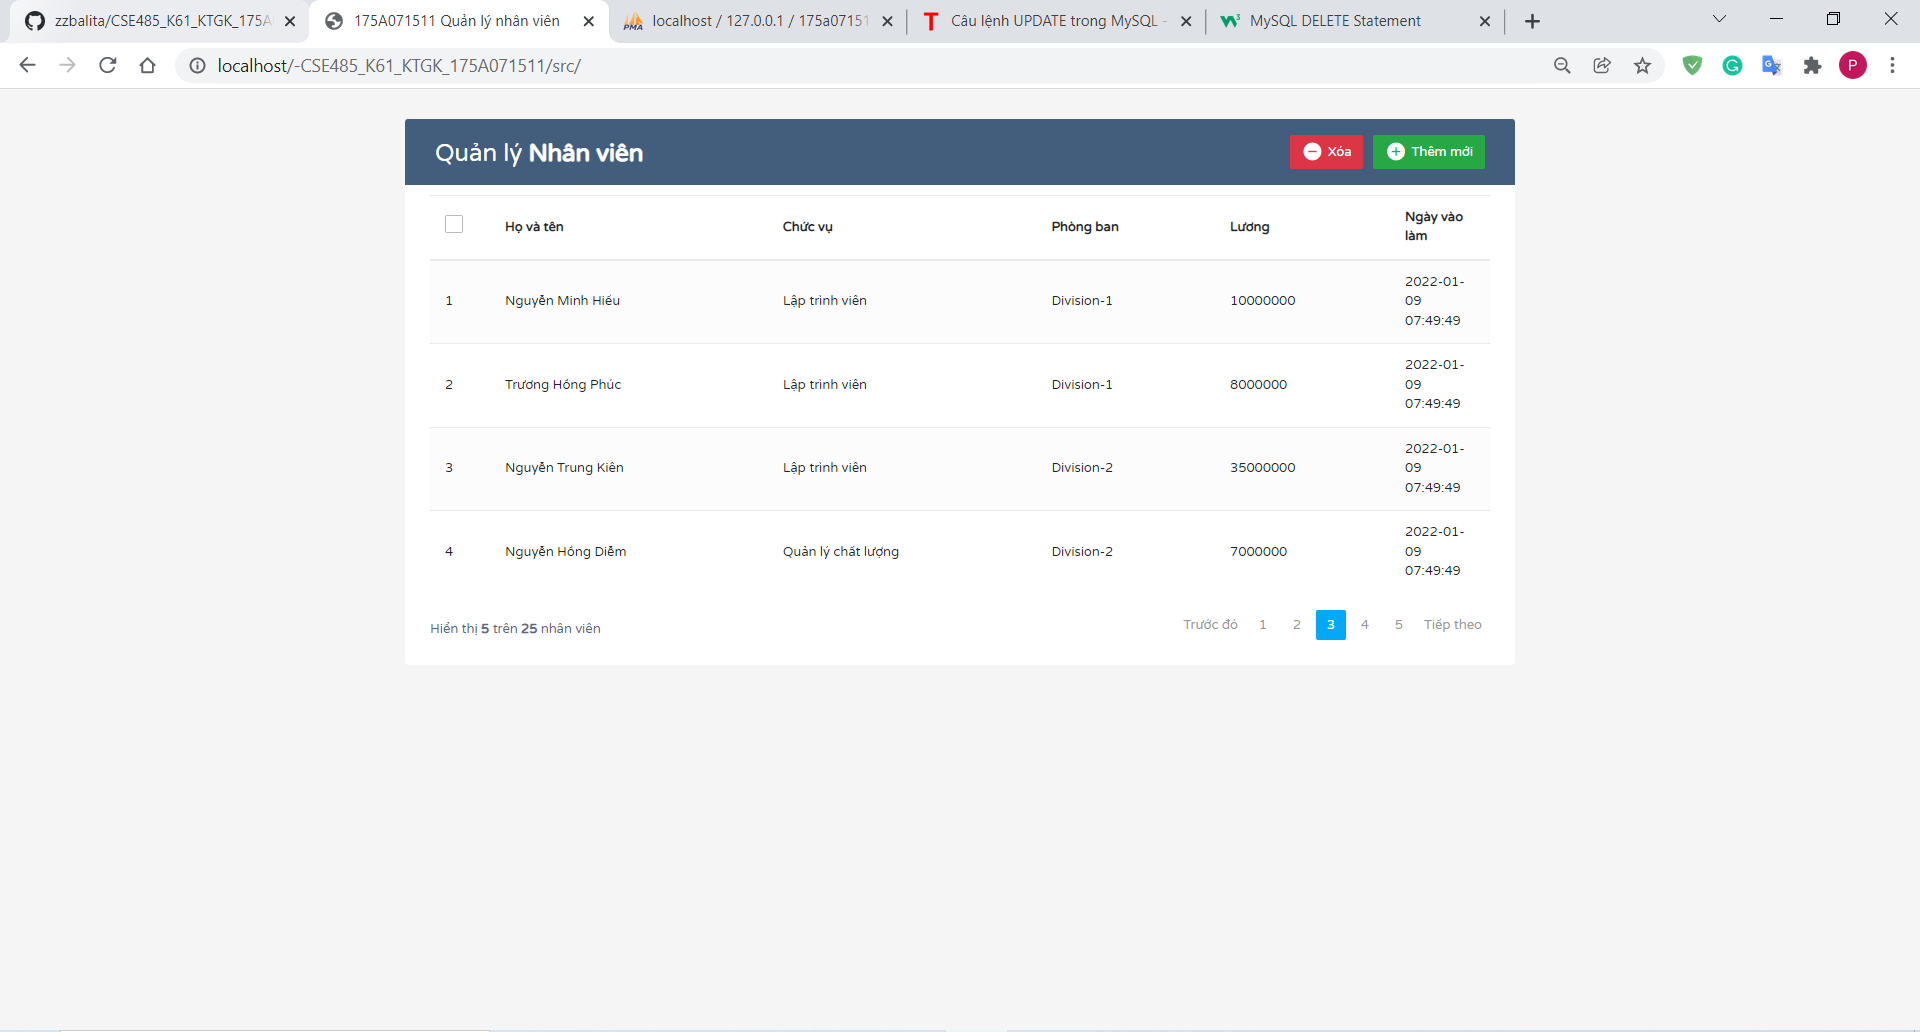
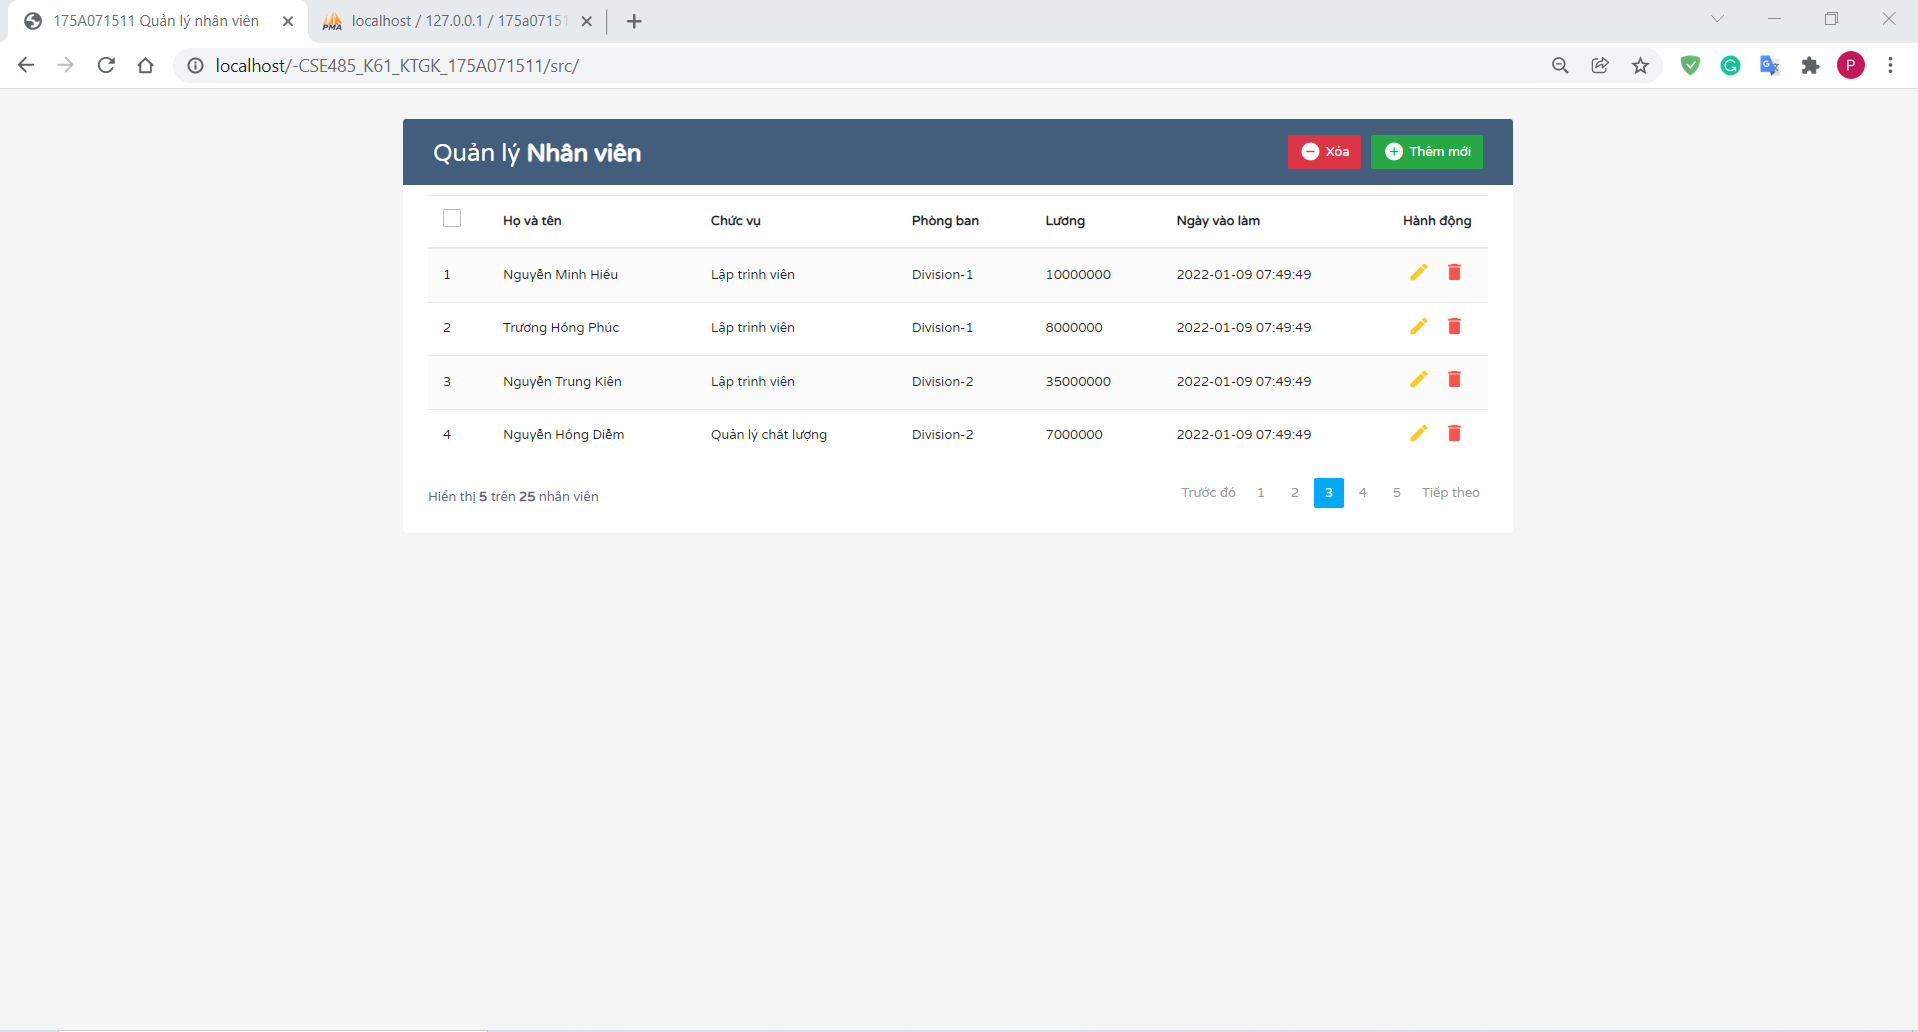
Add screenshot of functions

diff --git a/src/view/deleteemployee.html b/src/view/deleteemployee.html
@@ -12,7 +12,7 @@
                 </div>
                 <div class="modal-footer">
                     <input type="button" class="btn btn-default" data-dismiss="modal" value="Cancel">
-                    <input type="submit" class="btn btn-danger" value="Delete">
+                    <input id="deleteEmployee" type="submit" class="btn btn-danger" value="Delete">
                 </div>
             </form>
         </div>

diff --git a/src/view/editemployee.html b/src/view/editemployee.html
@@ -26,7 +26,7 @@
                 </div>
                 <div class="modal-footer">
                     <input type="button" class="btn btn-default" data-dismiss="modal" value="Cancel">
-                    <input type="submit" class="btn btn-info" value="Save">
+                    <input id="editEmployee" type="submit" class="btn btn-info" value="Save">
                 </div>
             </form>
         </div>

diff --git a/src/index.php b/src/index.php
@@ -72,6 +72,7 @@
                             <th>Phòng ban</th>
                             <th>Lương</th>
                             <th>Ngày vào làm</th>
+                            <th>Hành động</th>
                         </tr>
                     </thead>
                     <tbody>
@@ -86,6 +87,10 @@
                                 <td><?php echo $row['phongban']; ?></td>
                                 <td><?php echo $row['luong']; ?></td>
                                 <td><?php echo $row['ngayvaolam']; ?></td>
+                                <td>
+                                    <a href="#editEmployeeModal" class="edit" data-toggle="modal"><i class="material-icons" data-toggle="tooltip" title="Edit">&#xE254;</i></a>
+                                    <a href="#deleteEmployeeModal" class="delete" data-toggle="modal"><i class="material-icons" data-toggle="tooltip" title="Delete">&#xE872;</i></a>
+                                </td>
                             </tr>
                             <?php $stt++; ?>
                         <?php endwhile; ?>
@@ -109,6 +114,17 @@
     <?php include("view/addemployee.html"); ?>
     <?php include("view/editemployee.html"); ?>
     <?php include("view/deleteemployee.html"); ?>
+    <script>
+        document.getElementById('addEmployee').onclick = function() {
+            alert("Button Add pressed!");
+        }
+        document.getElementById('editEmployee').onclick = function() {
+            alert("Button Edit pressed!");
+        }
+        document.getElementById('deleteEmployee').onclick = function() {
+            alert("Button Delete pressed!");
+        }
+    </script>
 </body>
 
 </html>
